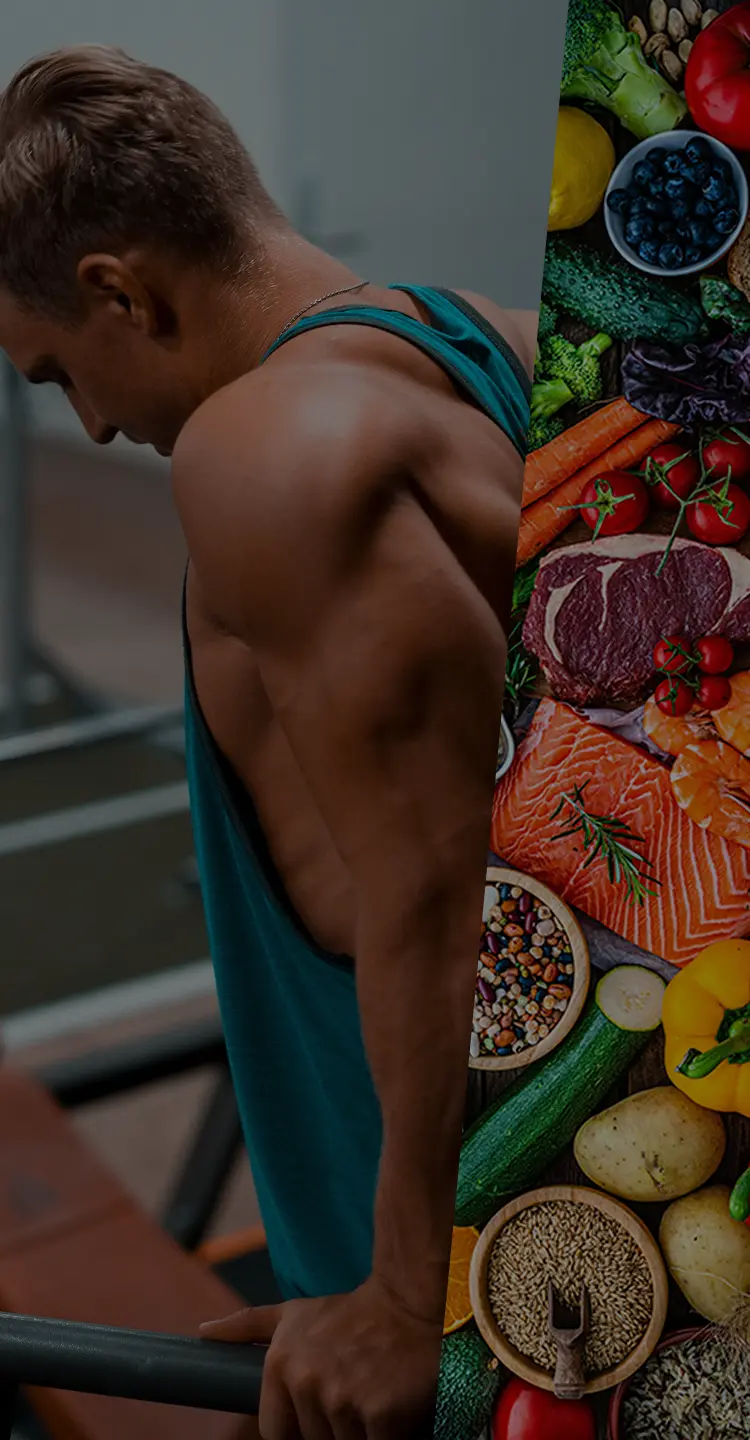
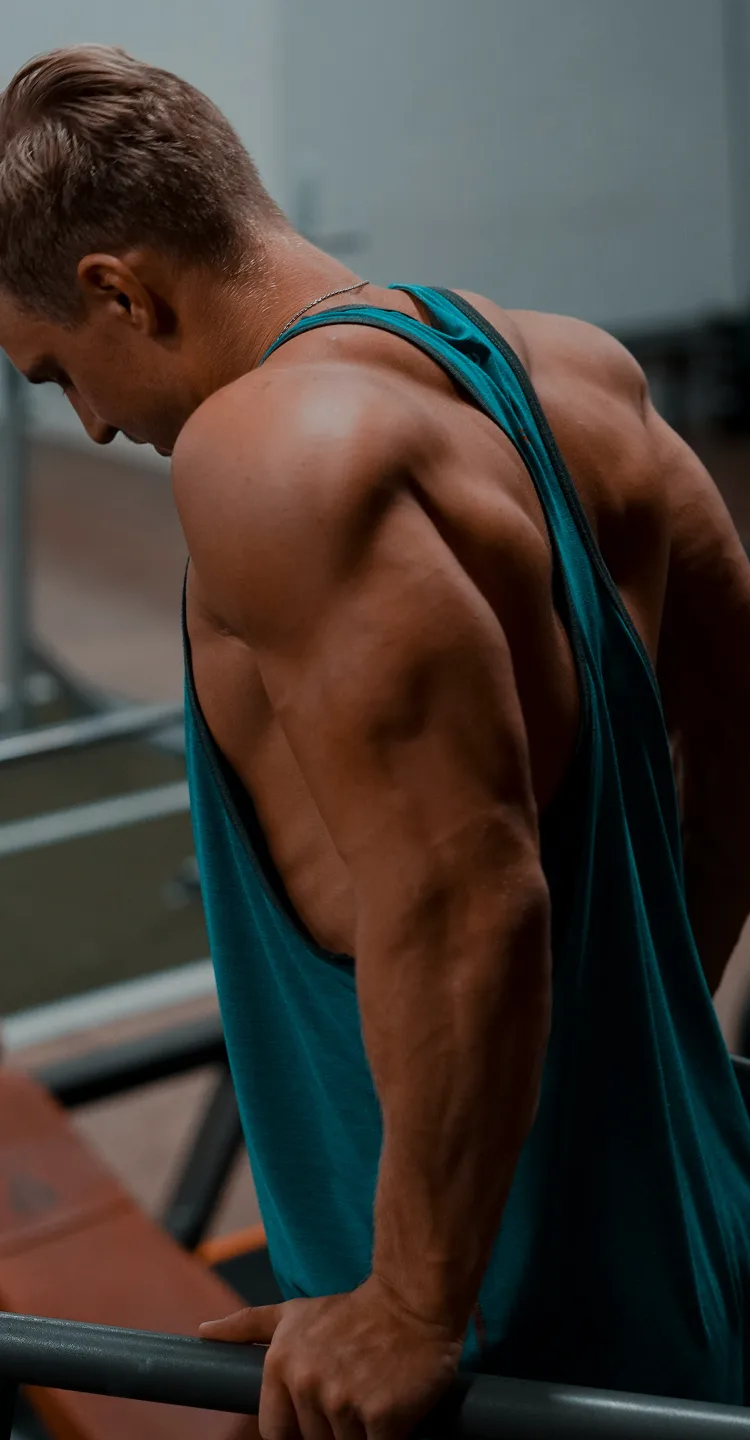
ui changes in homepage

diff --git a/public/front/css/styles.css b/public/front/css/styles.css
@@ -106,7 +106,7 @@ body {
     }
 
     .signup-container .form-section {
-        max-height: 81vh;
+        max-height: 83vh;
         overflow: auto;
     }
 }
@@ -317,9 +317,7 @@ body {
     left: 0;
     right: 0;
     bottom: 0;
-    background: linear-gradient(135deg,
-            rgba(0, 0, 0, 0.4) 0%,
-            rgba(0, 0, 0, 0.2) 100%);
+    /* background: #00000038; */
     z-index: 1;
     transition: opacity 0.8s ease;
 }
@@ -2237,7 +2235,7 @@ svg.user-type-icon path {
 }
 
 .next-button:hover {
-    background-color: #2563eb;
+    background-color: #4a84dd;
 }
 
 .login-link-text {
@@ -2248,7 +2246,7 @@ svg.user-type-icon path {
 }
 
 .login-link {
-    color: #2563eb;
+    color: #4a84dd;
     text-decoration: none;
 }
 
@@ -2314,11 +2312,11 @@ svg.user-type-icon path {
 
 .quiz-popup-title {
     color: #4A84DD !important;
-    font-family: Poppins;
+    font-family: "Poppins" !important;
     font-size: 44px !important;
-    font-style: italic;
+    font-style: italic !important;
     font-weight: 800 !important;
-    line-height: 54px;
+    line-height: 54px !important;
     text-transform: uppercase;
 }
 
@@ -2365,7 +2363,7 @@ svg.user-type-icon path {
     display: grid;
     grid-template-columns: repeat(4, 1fr);
     gap: 16px;
-    margin-bottom: 24px;
+    margin-bottom: 16px;
     flex: 1;
 }
 
@@ -2404,34 +2402,31 @@ svg.user-type-icon path {
     background: var(--White, #fff);
     box-shadow: 0 2px 8px 0 rgba(0, 0, 0, 0.12);
     padding: 12px;
-    transition: all 0.3s ease;
+    /* transition: all 0.3s ease; */
     cursor: pointer;
-    height: 180px;
+    height: 190px;
     display: flex;
     flex-direction: column;
     align-items: center;
-    justify-content: center;
+    justify-content: start;
 }
 
 .quiz-step .food-image-container:hover {
-    transform: translateY(-2px);
+    /* transform: translateY(-2px); */
     box-shadow: 0 4px 12px rgba(0, 0, 0, 0.15);
 }
 
 .quiz-step .food-image-container.selected {
-    border: 2px solid #2563eb;
-    background-color: #f0f8ff;
+    border: 2px solid #4a84dd;
 }
 
 .quiz-step .food-placeholder {
     width: auto;
+    min-height: 123px;
     max-height: 123px;
     display: flex;
     align-items: center;
     justify-content: center;
-    font-size: 28px;
-    background: #f3f4f6;
-    border-radius: 8px;
     margin-bottom: 8px;
 }
 
@@ -2441,18 +2436,25 @@ svg.user-type-icon path {
     right: 8px;
     width: 18px;
     height: 18px;
-    border: 2px solid #d1d5db;
     border-radius: 50%;
     background: white;
     cursor: pointer;
     appearance: none;
     -webkit-appearance: none;
-    transition: all 0.3s ease;
+    /* transition: all 0.3s ease; */
+    border: 0.5px solid #898989;
+    border-radius: 50%;
+    flex-shrink: 0;
+    fill: var(--White, #FFF);
+    stroke-width: 0.5px;
+    filter: drop-shadow(0 1px 2px rgba(0, 0, 0, 0.12));
+
+
 }
 
 .quiz-step .food-checkbox:checked {
-    background: #2563eb;
-    border-color: #2563eb;
+    background: #4a84dd;
+    border-color: #4a84dd;
 }
 
 .quiz-step .food-checkbox:checked::after,
@@ -2507,12 +2509,12 @@ svg.user-type-icon path {
     cursor: pointer;
     appearance: none;
     -webkit-appearance: none;
-    transition: all 0.3s ease;
+    /* transition: all 0.3s ease; */
 }
 
 .quiz-step .unsure-radio:checked {
-    background: #2563eb;
-    border-color: #2563eb;
+    background: #4a84dd;
+    border-color: #4a84dd;
 }
 
 .quiz-step .unsure-radio:checked::after {
@@ -2601,12 +2603,12 @@ svg.user-type-icon path {
     gap: 12px;
     padding: 0 16px;
     cursor: pointer;
-    transition: all 0.3s ease;
+    /* transition: all 0.3s ease; */
 }
 
 .quiz-step .radio-option:hover {
     background-color: #f9fafb;
-    border-color: #2563eb;
+    border-color: #4a84dd;
 }
 
 .quiz-step .radio-option input[type="radio"] {
@@ -2618,13 +2620,13 @@ svg.user-type-icon path {
     cursor: pointer;
     appearance: none;
     -webkit-appearance: none;
-    transition: all 0.3s ease;
+    /* transition: all 0.3s ease; */
     flex-shrink: 0;
 }
 
 .quiz-step .radio-option input[type="radio"]:checked {
-    background: #2563eb;
-    border-color: #2563eb;
+    background: #4a84dd;
+    border-color: #4a84dd;
 }
 
 .quiz-step .radio-option input[type="radio"]:checked::after {
@@ -2713,13 +2715,13 @@ svg.user-type-icon path {
 
 .quiz-step .radio-option:hover {
     background-color: #f9fafb;
-    border-color: #2563eb;
+    border-color: #4a84dd;
 }
 
 .quiz-step .radio-option input[type="radio"] {
-    width: 18px;
-    height: 18px;
-    border: 2px solid #d1d5db;
+    width: 12px;
+    height: 12px;
+    border: 0.5px solid #898989;
     border-radius: 50%;
     background: white;
     cursor: pointer;
@@ -2727,11 +2729,15 @@ svg.user-type-icon path {
     -webkit-appearance: none;
     transition: all 0.3s ease;
     flex-shrink: 0;
+    fill: var(--White, #FFF);
+    stroke-width: 0.5px;
+    filter: drop-shadow(0 1px 2px rgba(0, 0, 0, 0.12));
 }
 
 .quiz-step .radio-option input[type="radio"]:checked {
-    background: #2563eb;
-    border-color: #2563eb;
+    background: white;
+    border-radius: 50%;
+    border: 3px solid #4a84dd;
 }
 
 .quiz-step .radio-option input[type="radio"]:checked::after {
@@ -2853,6 +2859,7 @@ svg.user-type-icon path {
 }
 
 #quizModal .phone-input-container #country-list li,
+#signupModalathlete .phone-input-container #country-list li,
 #signupModalathlete .phone-input-container #login-country-list li,
 #loginModalathlete .phone-input-container #login-country-list li, 
 #quizModal .phone-input-container #quiz-phone-country-list li{
@@ -2864,6 +2871,7 @@ svg.user-type-icon path {
 }
 
 #quizModal .phone-input-container #country-list li:hover,
+#signupModalathlete .phone-input-container #country-list li:hover,
 #signupModalathlete .phone-input-container #login-country-list li:hover,
 #loginModalathlete .phone-input-container #country-list li:hover,
 #quizModal .phone-input-container #quiz-phone-country-list li:hover,
@@ -2873,15 +2881,17 @@ svg.user-type-icon path {
 
 /* Selected country item styling - same as quiz checkbox */
 #quizModal .phone-input-container #country-list li.selected,
+#signupModalathlete .phone-input-container #country-list li.selected,
 #signupModalathlete .phone-input-container #login-country-list li.selected,
 #loginModalathlete .phone-input-container #login-country-list li.selected,
 #quizModal .phone-input-container #quiz-phone-country-list li.selected {
     background: #f0f8ff;
-    border: 2px solid #2563eb;
+    border: 2px solid #4a84dd;
     position: relative;
 }
 
 #quizModal .phone-input-container #country-list li.selected::after,
+#signupModalathlete .phone-input-container #country-list li.selected::after,
 #signupModalathlete .phone-input-container #login-country-list li.selected::after,
 #loginModalathlete .phone-input-container #login-country-list li.selected::after,
 #quizModal .phone-input-container #quiz-phone-country-list li.selected::after {
@@ -2892,12 +2902,13 @@ svg.user-type-icon path {
     transform: translate(0, -50%);
     width: 18px;
     height: 18px;
-    background: #2563eb;
+    background: #4a84dd;
     border-radius: 50%;
-    border: 2px solid #2563eb;
+    border: 2px solid #4a84dd;
 }
 
 #quizModal .phone-input-container #country-list li.selected::before,
+#signupModalathlete .phone-input-container #country-list li.selected::before,
 #signupModalathlete .phone-input-container #login-country-list li.selected::before,
 #loginModalathlete .phone-input-container #login-country-list li.selected::before,
 #quizModal .phone-input-container #quiz-phone-country-list li.selected::before {
@@ -4099,9 +4110,9 @@ svg.user-type-icon path {
     .signup-container .image-section img {
         max-height: 300px;
     }
-.otp-input-group {
-    gap: 12px;
-}
+    .otp-input-group {
+        gap: 12px;
+    }
     .signup-container .otp-input {
         width: 50px;
         height: 50px;
@@ -4123,7 +4134,7 @@ svg.user-type-icon path {
     }
 
     .quiz-step .food-image-container {
-height: 240px;
+        height: 240px;
         padding: 8px;
         justify-content: flex-end;
     }
@@ -4214,7 +4225,7 @@ height: 240px;
         display: none;
     }
     .quiz-step .radio-options {
-          display: flex;
+       display: flex;
         gap: 10px 12px;
         justify-content: start;
         flex-wrap: wrap;
@@ -4526,6 +4537,7 @@ height: 240px;
     box-shadow: 0 2px 8px rgba(0, 0, 0, 0.15);
     transition: all 0.2s ease;
 }
+
 
 ul#country-list,
 ul#login-country-list,

diff --git a/resources/views/front/pages/partials/modal.blade.php b/resources/views/front/pages/partials/modal.blade.php
@@ -80,11 +80,11 @@
                         <!-- Step 0: Welcome Screen -->
                         <div class="quiz-step" id="step-1" data-step="1" style="padding-bottom:0; width: 100%;">
                             <div>
-                                <h2 class="welcome-title quiz-popup-title" style="margin-bottom:12px;">Nutrition
+                                <h2 class="welcome-title quiz-popup-title" style="margin-bottom:12px;">Nutrition<br />
                                     knowledge quiz</h2>
-                                <p class="quiz-popup-subtitle" style="margin-bottom:36px;">Take our 5-minute food
-                                    quiz to learn how well you're fuelling your performance, and where you can level
-                                    up.</p>
+                                <p class="quiz-popup-subtitle" style="margin-bottom:36px;">Take our 2 minute food
+                                        quiz to learn how well you're fuelling your performance, and where you can level
+                                        up.</p>
 
                                 <!-- Continue Quiz Indicator -->
                                 <div id="continue-quiz-indicator" style="display: none; background: #e3f2fd;
@@ -97,7 +97,7 @@
                                 <div class="form-group">
                                     <button class="btn-signup" id="start-quiz-btn" data-next="2"
                                         style="width:100%;">Let's go!</button>
-                                    <button class="btn-signup" id="start-over-btn"
+                                    <button class="btn-back" id="start-over-btn"
                                         style="margin-top: 10px; display: none;">Start Over</button>
                                 </div>
                             </div>
@@ -1198,8 +1198,8 @@
                     </div>
 
                     <div class="image-section" id="quiz-image-section">
-                        <img src="{{ frontAssets('images/quiz-bg.webp') }}" alt="Bowl of healthy food" class="food-image"
-                            id="quiz-main-image" />
+                        <img src="{{ frontAssets('images/quiz-bg.webp') }}" alt="quiz-bg" class="food-image"
+                            id="quiz-main-image" style="max-height:700px;"/>
                         <img src="{{ frontAssets('images/quiz/signup-bg.webp') }}" alt="Signup background"
                             class="food-image signup-image" id="quiz-signup-image" style="display: none;" />
                     </div>

diff --git a/resources/views/front/pages/sub-home-page.blade.php b/resources/views/front/pages/sub-home-page.blade.php
@@ -812,7 +812,7 @@
                                 Contact us for club deals and group bookings.
                                 </p>
                             </div>
-                            <button class=" btn-signup">Learn more</button>
+                            <button class=" btn-signup"  onclick="scrollToContact()">Learn more</button>
                             </div>
                         </div>
                         </div>
@@ -5636,6 +5636,23 @@
                 if (selectedLabel) selectedLabel.classList.add('selected');
             });
         });
+
+
+
+         // Scroll to contact section functionality
+        function scrollToContact() {
+            const contactSection = document.querySelector('#contact-section');
+            if (contactSection) {
+                const offset = 80; // Offset in pixels from the top
+                const elementPosition = contactSection.getBoundingClientRect().top;
+                const offsetPosition = elementPosition + window.pageYOffset - offset;
+                
+                window.scrollTo({
+                    top: offsetPosition,
+                    behavior: 'smooth'
+                });
+            }
+        }
     </script>
 @endsection
 
